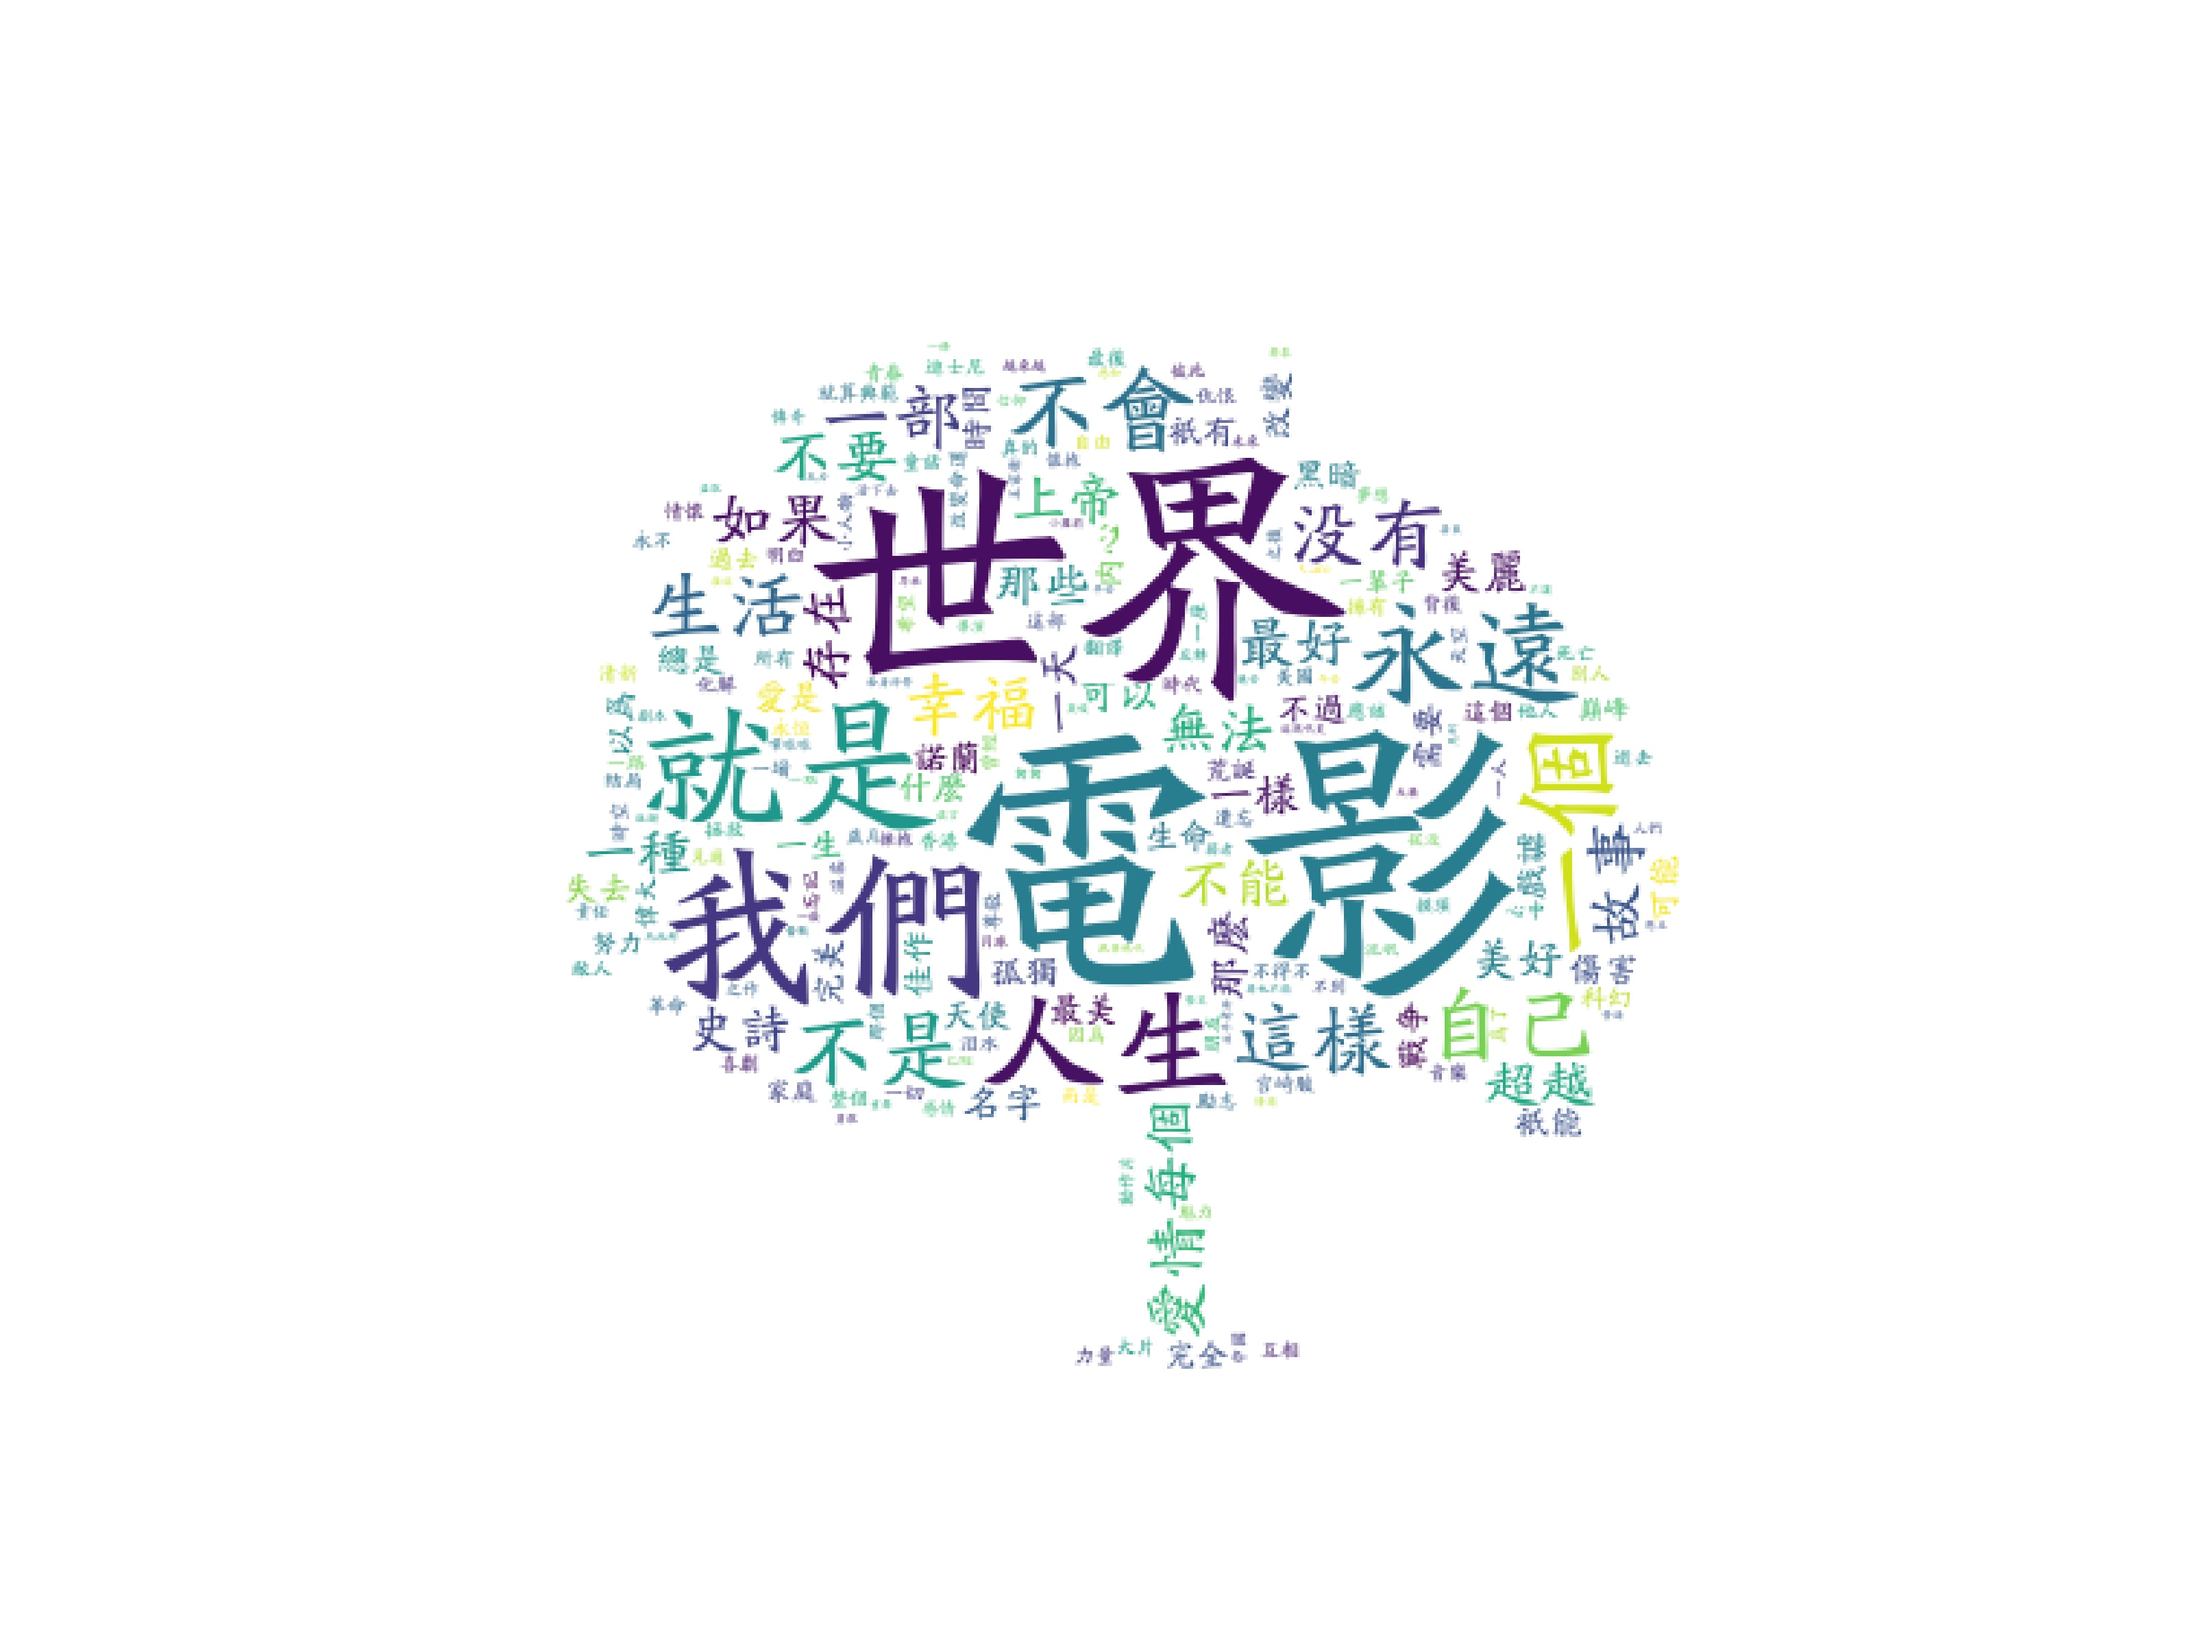
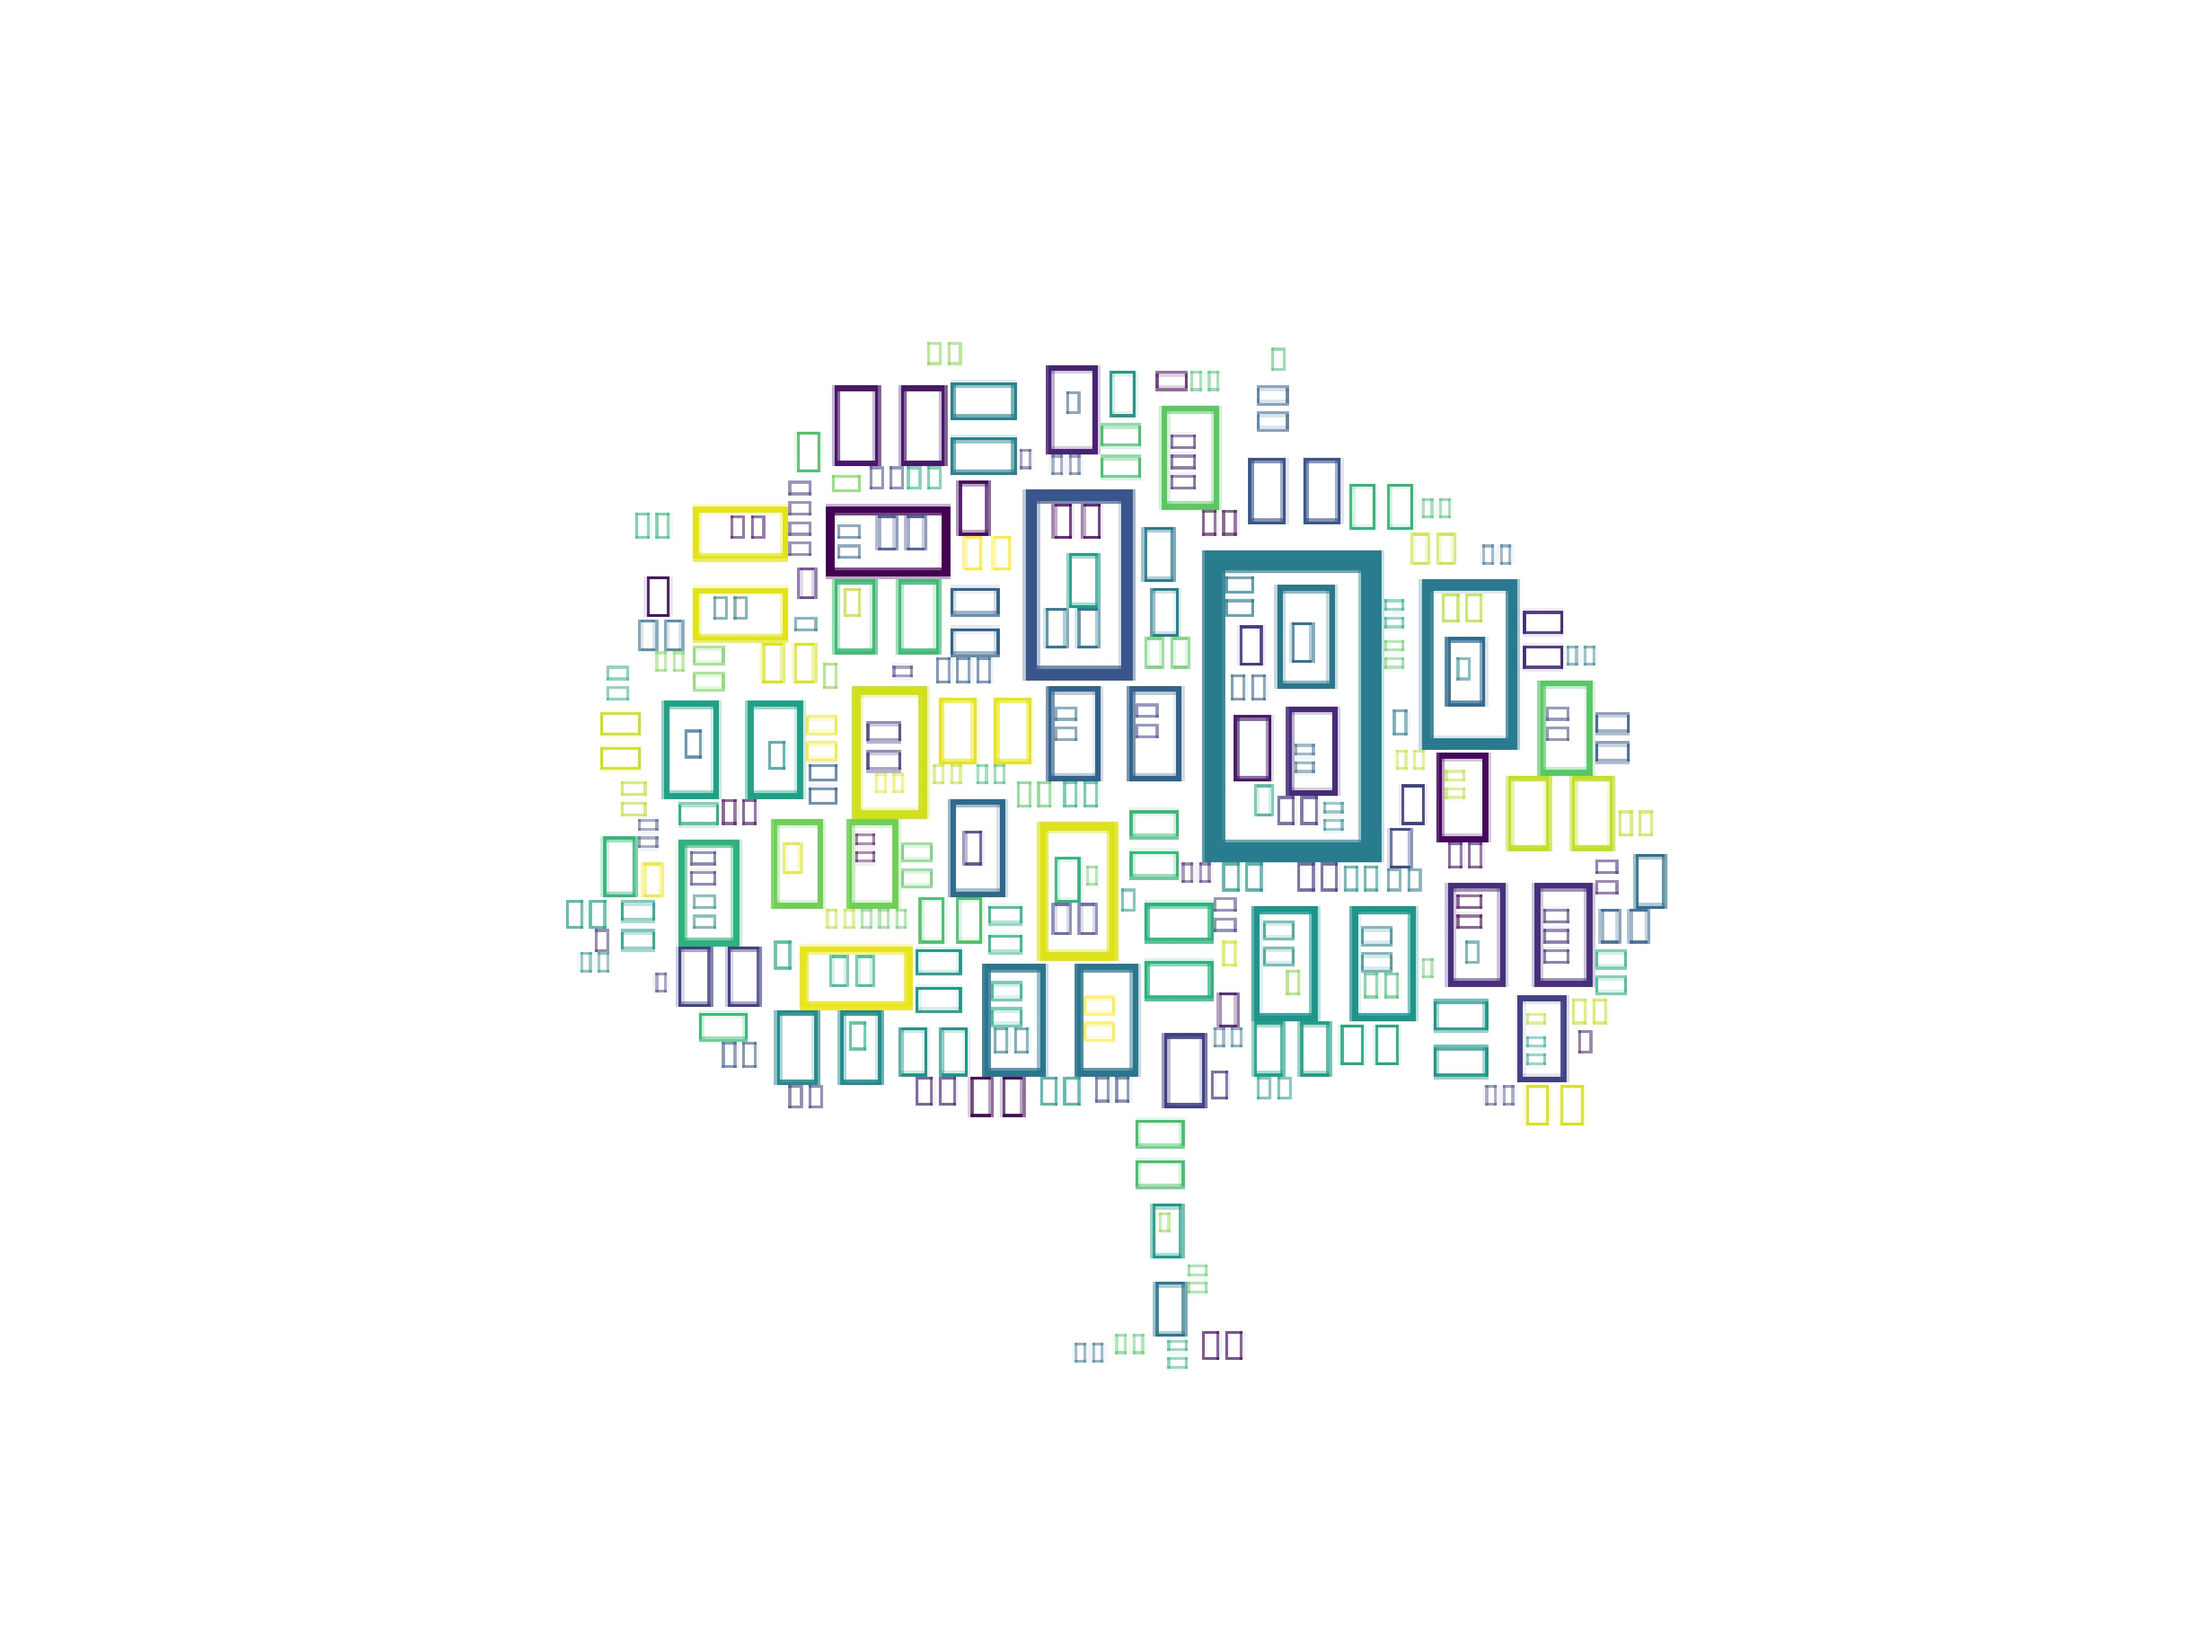
更改instruction拼错的瑕疵

Changed region(s): [[0.25, 0.2188, 0.7812, 0.8438]]

diff --git a/testCloud.py b/testCloud.py
@@ -12,7 +12,7 @@ from PIL import Image                   # 图片处理
 # 准备词云需要的词
 conn = sqlite3.connect("movie.db")
 cur = conn.cursor()
-sql = '''select introduction from movie250'''
+sql = '''select instroduction from movie250'''
 data = cur.execute(sql)
 text = ""
 for item in data:
@@ -32,7 +32,6 @@ img_array = np.array(img)   # 将图片转换为数组
 wc = WordCloud(
     background_color='white',
     mask=img_array,
-    font_path="方正北魏楷书繁体.ttf"        # C:\Windows\Fonts
 )
 wc.generate_from_text(string)
 
